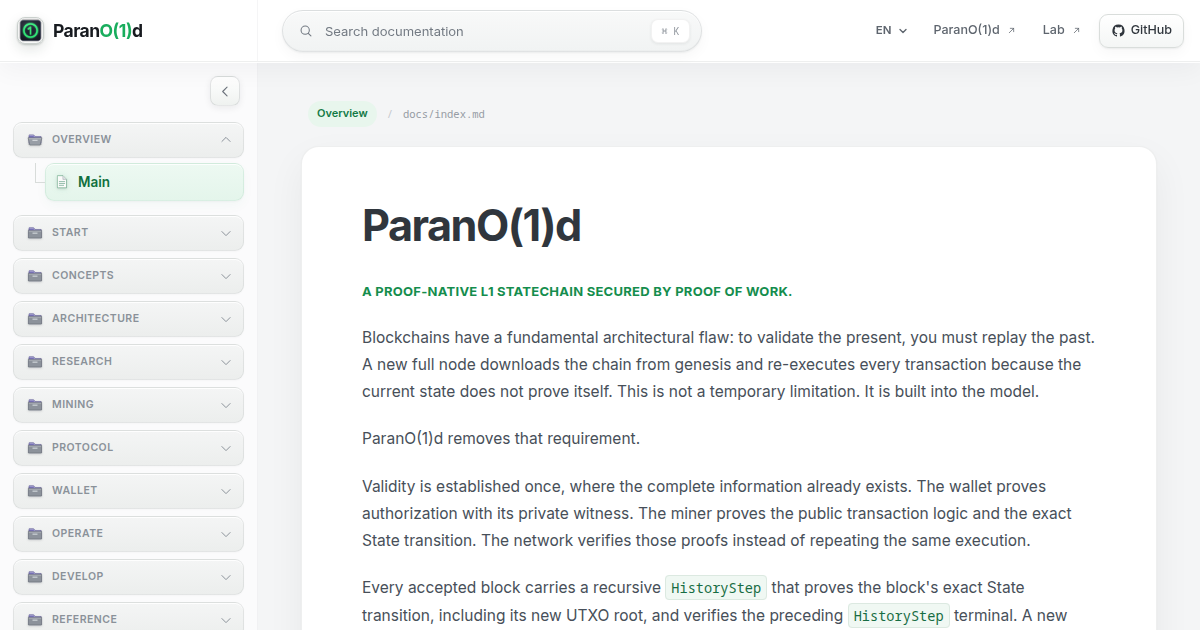
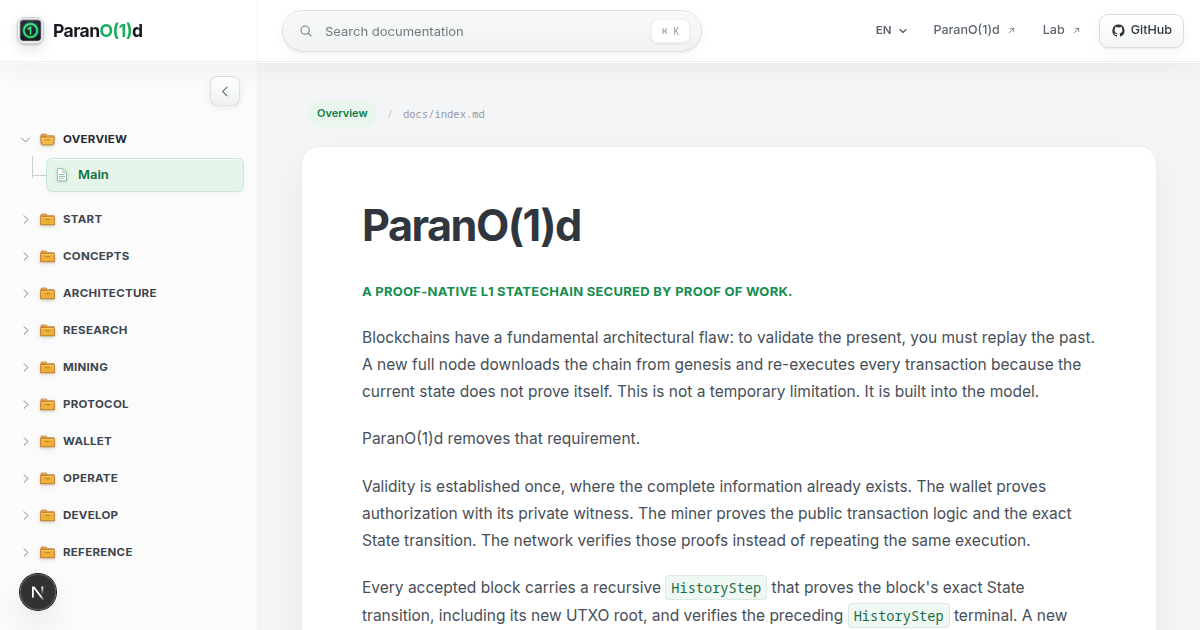
improve SEO and page performance

Changed region(s): [[0.0, 0.2111, 0.185, 0.6032], [0.0, 0.6937, 0.1233, 0.9952], [0.0, 0.6333, 0.1233, 0.6635]]

diff --git a/lib/docs.ts b/lib/docs.ts
@@ -3,6 +3,9 @@ import anchor from "markdown-it-anchor";
 import { mathPlugin } from "@/lib/math";
 import {
   generatedDocuments,
+  generatedImageDimensions,
+  generatedImageVariants,
+  generatedResponsiveImageVariants,
   generatedSummaries
 } from "@/generated/docs-content";
 import {
@@ -94,7 +97,30 @@ function titleFromMarkdown(raw: string): string {
   return match ? cleanInlineMarkdown(match[1]) : "Untitled";
 }
 
-function descriptionFromMarkdown(raw: string): string {
+function truncateDescription(value: string, locale: Locale): string {
+  const maximum = locale === "zh" ? 82 : 160;
+  const minimumSentence = locale === "zh" ? 38 : 92;
+  if (value.length <= maximum) return value;
+
+  const candidate = value.slice(0, maximum + 1);
+  const sentenceBoundary = Math.max(
+    candidate.lastIndexOf("。"),
+    candidate.lastIndexOf("！"),
+    candidate.lastIndexOf("？"),
+    candidate.lastIndexOf(". "),
+    candidate.lastIndexOf("! "),
+    candidate.lastIndexOf("? ")
+  );
+  if (sentenceBoundary >= minimumSentence) {
+    return candidate.slice(0, sentenceBoundary + 1).trim();
+  }
+
+  if (locale === "zh") return `${value.slice(0, maximum - 1).trim()}…`;
+  const wordBoundary = candidate.lastIndexOf(" ");
+  return `${candidate.slice(0, wordBoundary >= minimumSentence ? wordBoundary : maximum - 1).trim()}…`;
+}
+
+function descriptionFromMarkdown(raw: string, locale: Locale): string {
   const withoutCode = raw.replace(/```[\s\S]*?```/g, "");
   const blocks = withoutCode
     .split(/\n\s*\n/)
@@ -108,7 +134,41 @@ function descriptionFromMarkdown(raw: string): string {
         !block.startsWith("![")
     );
 
-  return cleanInlineMarkdown(blocks[0] ?? "").slice(0, 240);
+  const minimum = locale === "zh" ? 42 : 96;
+  const descriptionBlocks: string[] = [];
+  for (const block of blocks) {
+    const clean = cleanInlineMarkdown(block);
+    if (!clean) continue;
+    descriptionBlocks.push(clean);
+    if (descriptionBlocks.join(" ").length >= minimum) break;
+  }
+
+  return truncateDescription(descriptionBlocks.join(" "), locale);
+}
+
+const seoTitleOverrides: Readonly<Record<Locale, Readonly<Record<string, string>>>> = {
+  en: {
+    "operate/internal-mining": "Internal Core miner",
+    "wallet/mining": "Mining in the wallet"
+  },
+  ru: {
+    "operate/internal-mining": "Встроенный майнер Core",
+    "wallet/mining": "Майнинг в кошельке"
+  },
+  zh: {
+    "architecture/state": "Live State 架构",
+    "concepts/proof-native-statechain": "证明原生 statechain",
+    "operate/internal-mining": "Core 内置矿工",
+    "wallet/mining": "在钱包中挖矿"
+  }
+};
+
+export function getSeoTitle(
+  locale: Locale,
+  slug: string,
+  fallback: string
+): string {
+  return seoTitleOverrides[locale][slug] ?? fallback;
 }
 
 function plainTextFromMarkdown(raw: string): string {
@@ -200,6 +260,7 @@ function createMarkdownRenderer(
   locale: Locale,
   headingIds: ReadonlyMap<string, string>
 ) {
+  let imageIndex = 0;
   const md = new MarkdownIt({
     html: false,
     linkify: true,
@@ -239,9 +300,30 @@ function createMarkdownRenderer(
   md.renderer.rules.image = (tokens, index, options, env, self) => {
     const token = tokens[index];
     const src = String(token.attrGet("src") ?? "");
-    token.attrSet("src", resolveDocHref(src, sourcePath, locale));
-    token.attrSet("loading", "lazy");
-    token.attrSet("decoding", "async");
+    const resolvedSource = resolveDocHref(src, sourcePath, locale);
+    const optimizedSource = generatedImageVariants[resolvedSource] ?? resolvedSource;
+    const responsiveVariant = generatedResponsiveImageVariants[resolvedSource];
+    const dimensions =
+      generatedImageDimensions[optimizedSource] ??
+      generatedImageDimensions[resolvedSource];
+    token.attrSet("src", optimizedSource);
+    if (responsiveVariant) {
+      token.attrSet("srcset", responsiveVariant.srcset);
+      token.attrSet("sizes", responsiveVariant.sizes);
+    }
+    if (dimensions) {
+      token.attrSet("width", String(dimensions.width));
+      token.attrSet("height", String(dimensions.height));
+    }
+    if (imageIndex === 0) {
+      token.attrSet("loading", "eager");
+      token.attrSet("fetchpriority", "high");
+      token.attrSet("decoding", "async");
+    } else {
+      token.attrSet("loading", "lazy");
+      token.attrSet("decoding", "async");
+    }
+    imageIndex += 1;
     return defaultImage(tokens, index, options, env, self);
   };
 
@@ -323,7 +405,7 @@ export function getDoc(locale: Locale, slug: string): DocPage | null {
     slug,
     sourcePath,
     title: titleFromMarkdown(raw),
-    description: descriptionFromMarkdown(raw),
+    description: descriptionFromMarkdown(raw, locale),
     html: md.renderer.render(tokens, md.options, {}),
     toc
   };
@@ -346,7 +428,7 @@ export function getSearchIndex(locale: Locale): SearchEntry[] {
       title: titleFromMarkdown(raw),
       slug,
       section: sections.get(slug) ?? uiCopy[locale].documentation,
-      description: descriptionFromMarkdown(raw),
+      description: descriptionFromMarkdown(raw, locale),
       text: plainTextFromMarkdown(raw)
     };
   });

diff --git a/components/site-chrome.tsx b/components/site-chrome.tsx
@@ -217,6 +217,7 @@ function LanguageSwitcher({
           <Link
             key={candidate}
             href={pathForLocale(candidate, currentSlug)}
+            prefetch={false}
             hrefLang={localeInfo[candidate].htmlLang}
             lang={localeInfo[candidate].htmlLang}
             className={candidate === locale ? "is-active" : ""}
@@ -459,7 +460,11 @@ export default function SiteChrome({
     <div className={`docs-app ${sidebarCollapsed ? "is-sidebar-collapsed" : ""}`}>
       <header className="topbar">
         <div className="topbar-brand">
-          <Link href={pathForLocale(locale, "")} className="brand-link">
+          <Link
+            href={pathForLocale(locale, "")}
+            prefetch={false}
+            className="brand-link"
+          >
             <BrandMark />
             <Brand />
           </Link>
@@ -575,6 +580,7 @@ export default function SiteChrome({
                         <li key={item.slug || "overview"}>
                           <Link
                             href={pathForLocale(locale, item.slug)}
+                            prefetch={false}
                             className={active ? "is-active" : ""}
                             aria-current={active ? "page" : undefined}
                             onClick={() => setNavigationOpen(false)}
@@ -610,6 +616,7 @@ export default function SiteChrome({
             {previous ? (
               <Link
                 href={pathForLocale(locale, previous.slug)}
+                prefetch={false}
                 className="neighbor previous"
               >
                 <span>{copy.previous}</span>
@@ -621,6 +628,7 @@ export default function SiteChrome({
             {next ? (
               <Link
                 href={pathForLocale(locale, next.slug)}
+                prefetch={false}
                 className="neighbor next"
               >
                 <span>{copy.next}</span>
@@ -700,6 +708,7 @@ export default function SiteChrome({
               {results.map((entry) => (
                 <Link
                   href={pathForLocale(locale, entry.slug)}
+                  prefetch={false}
                   key={entry.slug || "overview"}
                   onClick={() => {
                     setSearchOpen(false);

diff --git a/app/[[...slug]]/page.tsx b/app/[[...slug]]/page.tsx
@@ -6,6 +6,7 @@ import {
   getAllRouteSegments,
   getDoc,
   getNavigation,
+  getSeoTitle,
   getSearchIndex,
   getSectionForSlug
 } from "@/lib/docs";
@@ -43,10 +44,11 @@ export async function generateMetadata({
   const canonical = pathForLocale(locale, slug);
   const section = getSectionForSlug(locale, slug);
   const info = localeInfo[locale];
-  const pageTitle = slug ? doc.title : info.docsTitle;
+  const seoTitle = getSeoTitle(locale, slug, doc.title);
+  const pageTitle = slug ? seoTitle : info.docsTitle;
   const description = slug ? doc.description : info.docsDescription;
   const title = {
-    absolute: slug ? `${doc.title} · ${info.docsTitle}` : info.docsTitle
+    absolute: slug ? `${seoTitle} · ParanO(1)d Docs` : info.docsTitle
   };
 
   return {
@@ -64,7 +66,7 @@ export async function generateMetadata({
       languages: languageAlternates(slug)
     },
     openGraph: {
-      type: "article",
+      type: slug ? "article" : "website",
       locale: info.ogLocale,
       alternateLocale: locales
         .filter((candidate) => candidate !== locale)
@@ -104,7 +106,8 @@ export default async function DocumentationPage({ params }: PageProps) {
   const canonicalUrl = `${siteUrl}${pathForLocale(locale, slug)}`;
   const documentationUrl = `${siteUrl}${pathForLocale(locale, "")}`;
   const structuredData = [
-    {
+    ...(slug
+      ? [{
       "@context": "https://schema.org",
       "@type": "TechArticle",
       "@id": `${canonicalUrl}#article`,
@@ -125,7 +128,8 @@ export default async function DocumentationPage({ params }: PageProps) {
       publisher: {
         "@id": "https://parano1d.org/#organization"
       }
-    },
+    }]
+      : []),
     {
       "@context": "https://schema.org",
       "@type": "BreadcrumbList",

diff --git a/app/globals.css b/app/globals.css
@@ -14,14 +14,6 @@
   font-display: swap;
 }
 
-@font-face {
-  font-family: "Noto Sans Mono";
-  src: url("/assets/fonts/NotoSansMono-Regular.ttf") format("truetype");
-  font-style: normal;
-  font-weight: 400;
-  font-display: swap;
-}
-
 :root {
   --background: #07090d;
   --background-deep: #05070a;

diff --git a/app/layout.tsx b/app/layout.tsx
@@ -3,6 +3,7 @@ import "@fontsource/inter/400.css";
 import "@fontsource/inter/500.css";
 import "@fontsource/inter/600.css";
 import "@fontsource/inter/700.css";
+import "@fontsource/noto-sans-mono/400.css";
 import "./globals.css";
 import "katex/dist/katex.min.css";
 

diff --git a/app/not-found.tsx b/app/not-found.tsx
@@ -1,4 +1,12 @@
 import Link from "next/link";
+import type { Metadata } from "next";
+
+export const metadata: Metadata = {
+  robots: {
+    index: false,
+    follow: false
+  }
+};
 
 export default function NotFound() {
   return (
